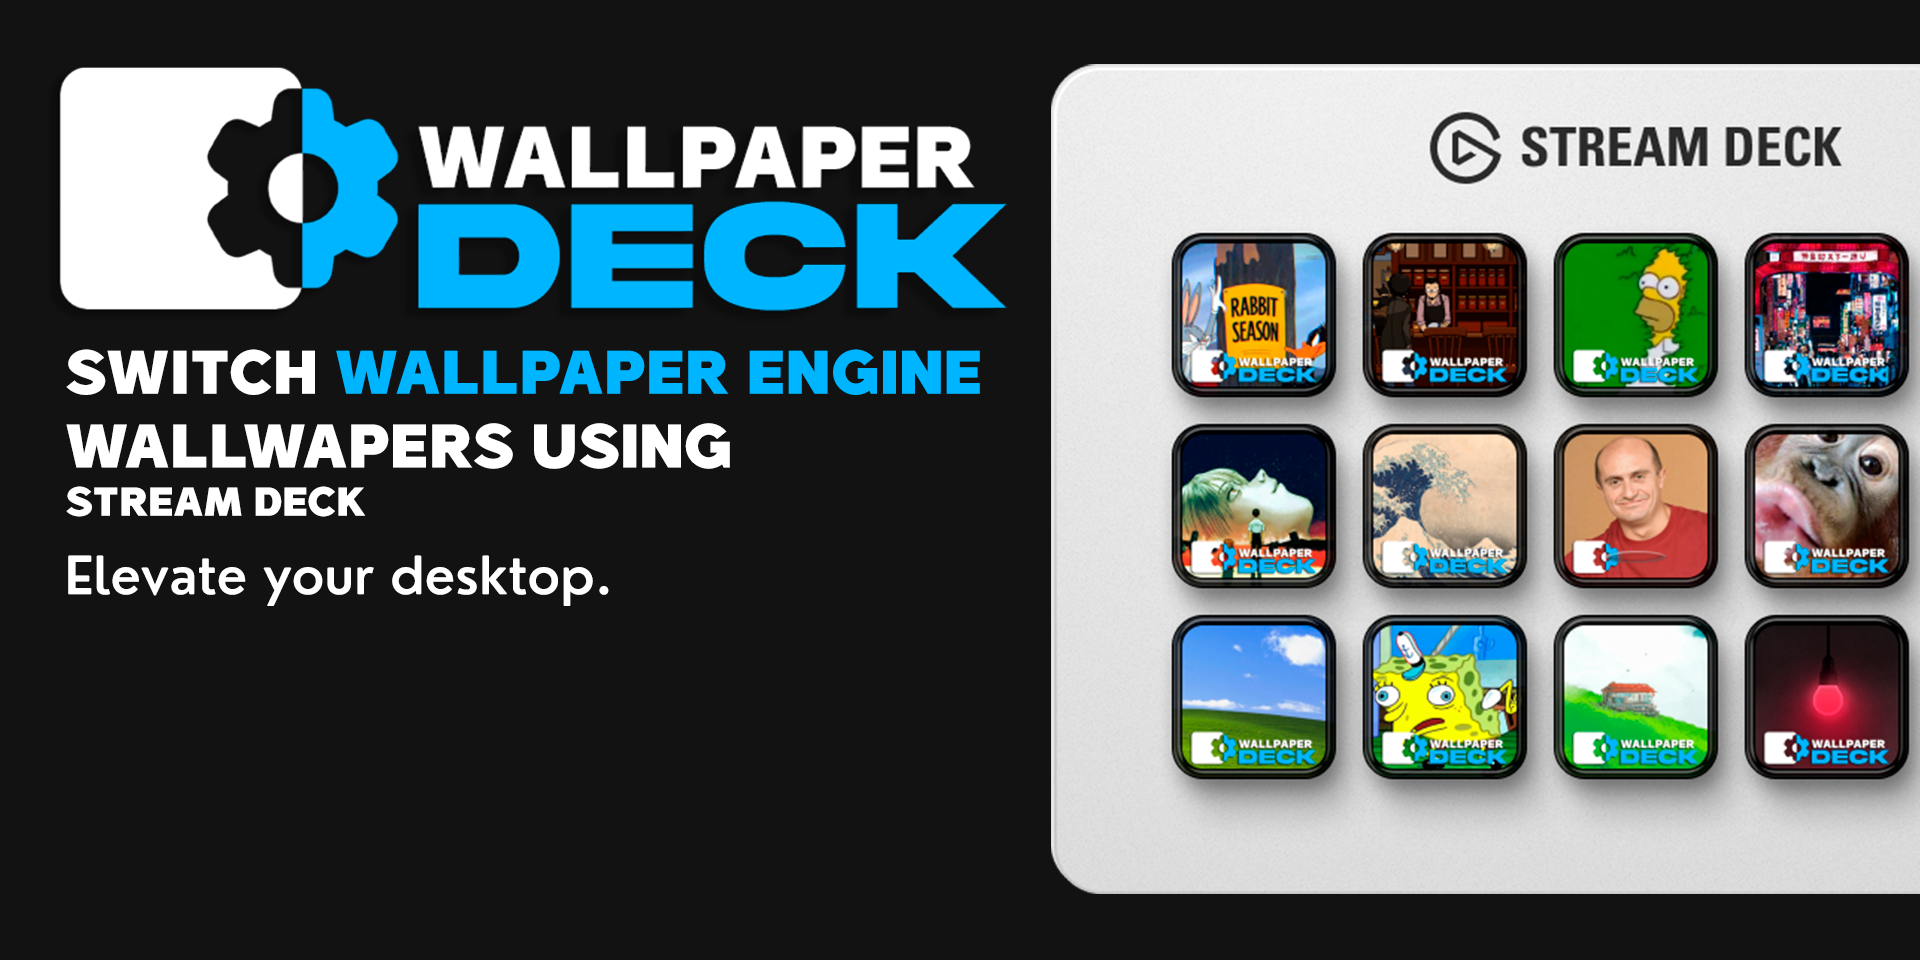
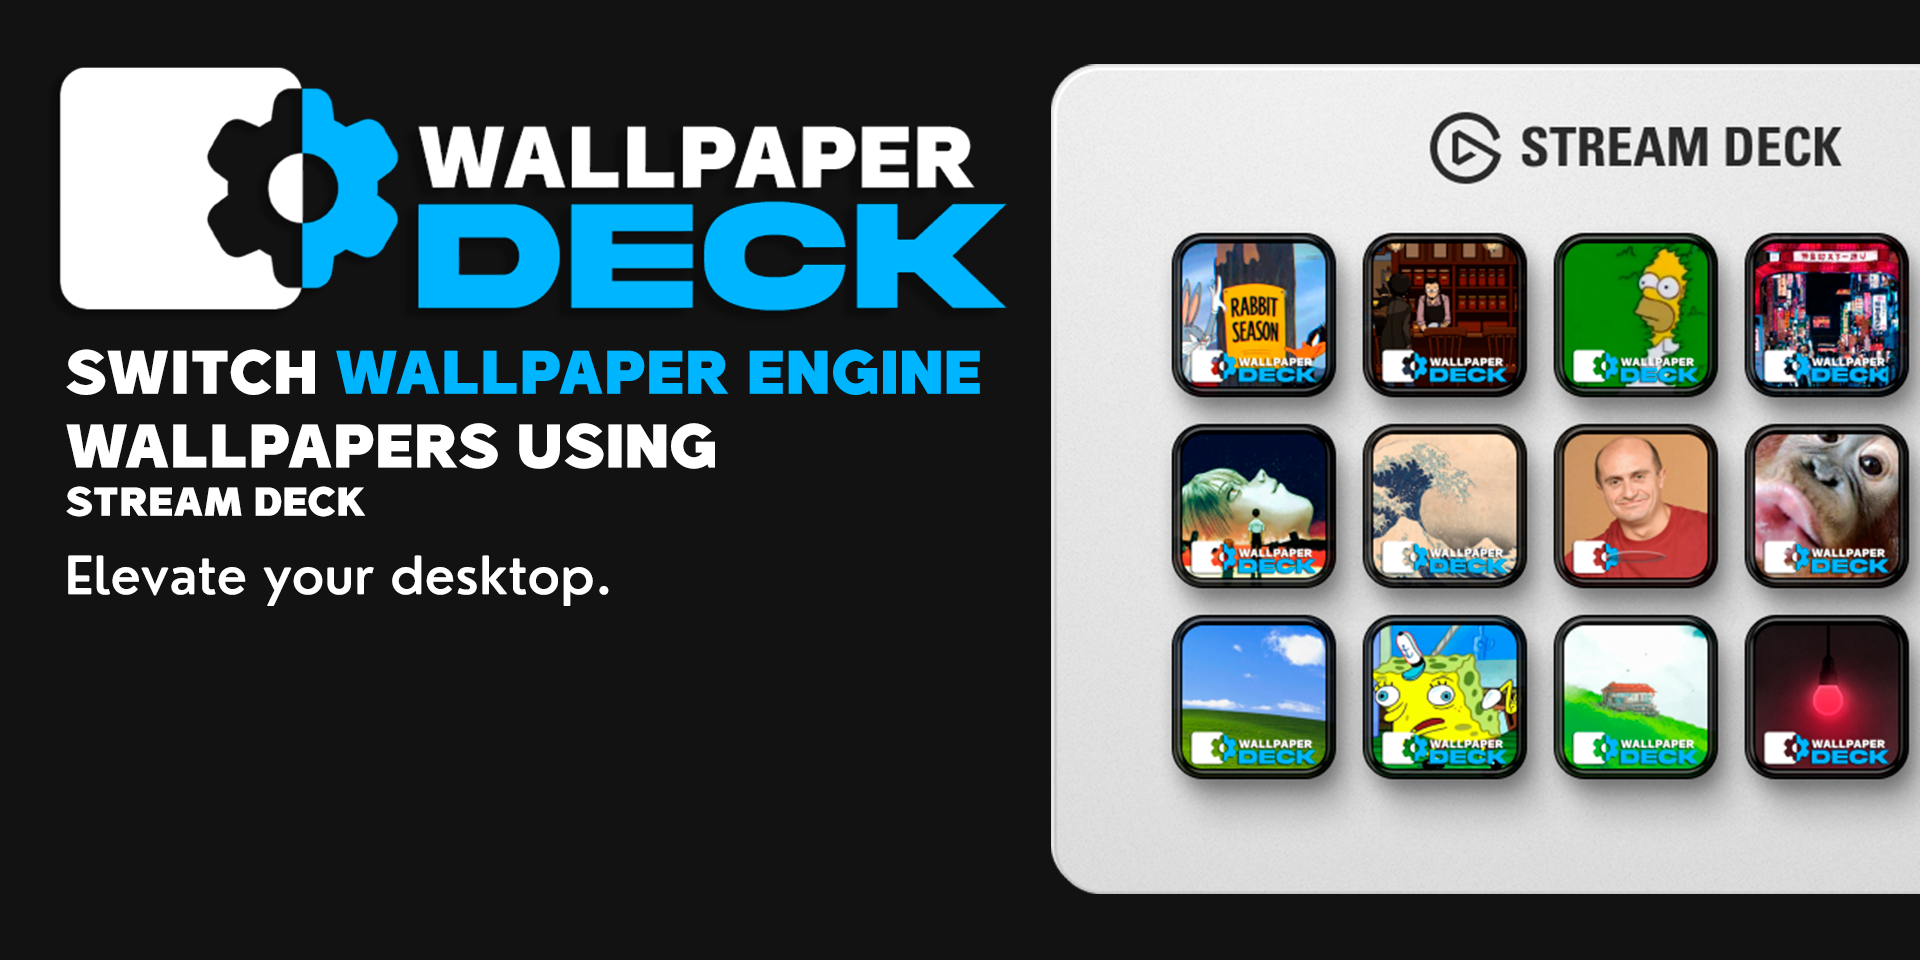
docs: updated readme description and preview

Changed region(s): [[0.125, 0.4375, 0.375, 0.5]]

diff --git a/README.MD b/README.MD
@@ -23,7 +23,7 @@
 
[1 lines of base64/hex data omitted]
 
-**Wallpaper Deck** is a Stream Deck plugin that lets you switch [Wallpaper Engine](https://www.wallpaperengine.io/) wallpapers instantly from a single button press, no alt-tabbing, no menus. Each key shows a live preview of the wallpaper it will activate, so your deck becomes a visual wallpaper gallery.
+**Wallpaper Deck** is a Stream Deck plugin that lets you switch [Wallpaper Engine](https://www.wallpaperengine.io/) wallpapers, playlists, and random picks instantly with a single button press, no alt-tabbing, no digging through menus. Every key shows a live preview of what it activates, turning your Stream Deck into a visual wallpaper gallery, and a built in search with favorites keeps your go to wallpapers one click away. Target a specific monitor or clone the wallpaper across all of them, right from the same button.
 
 ---
 
